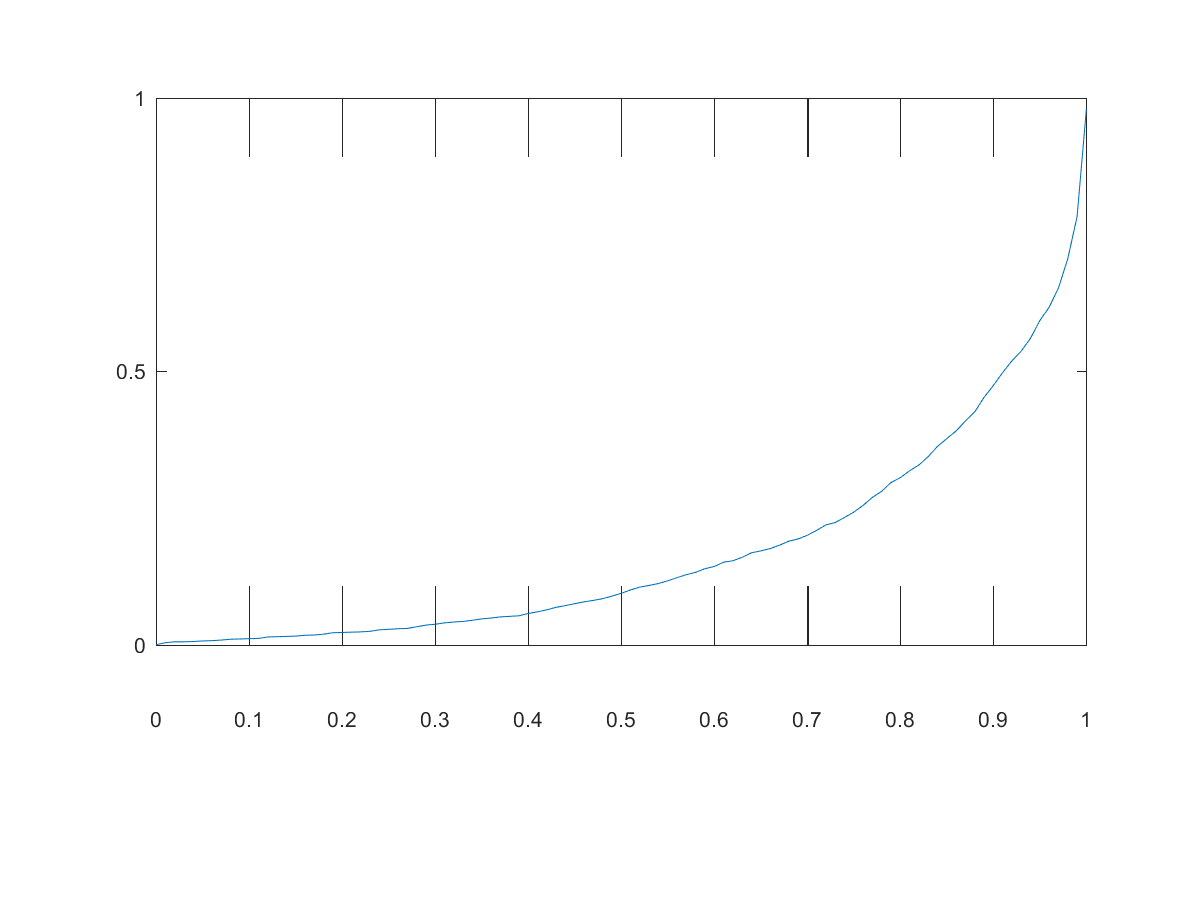
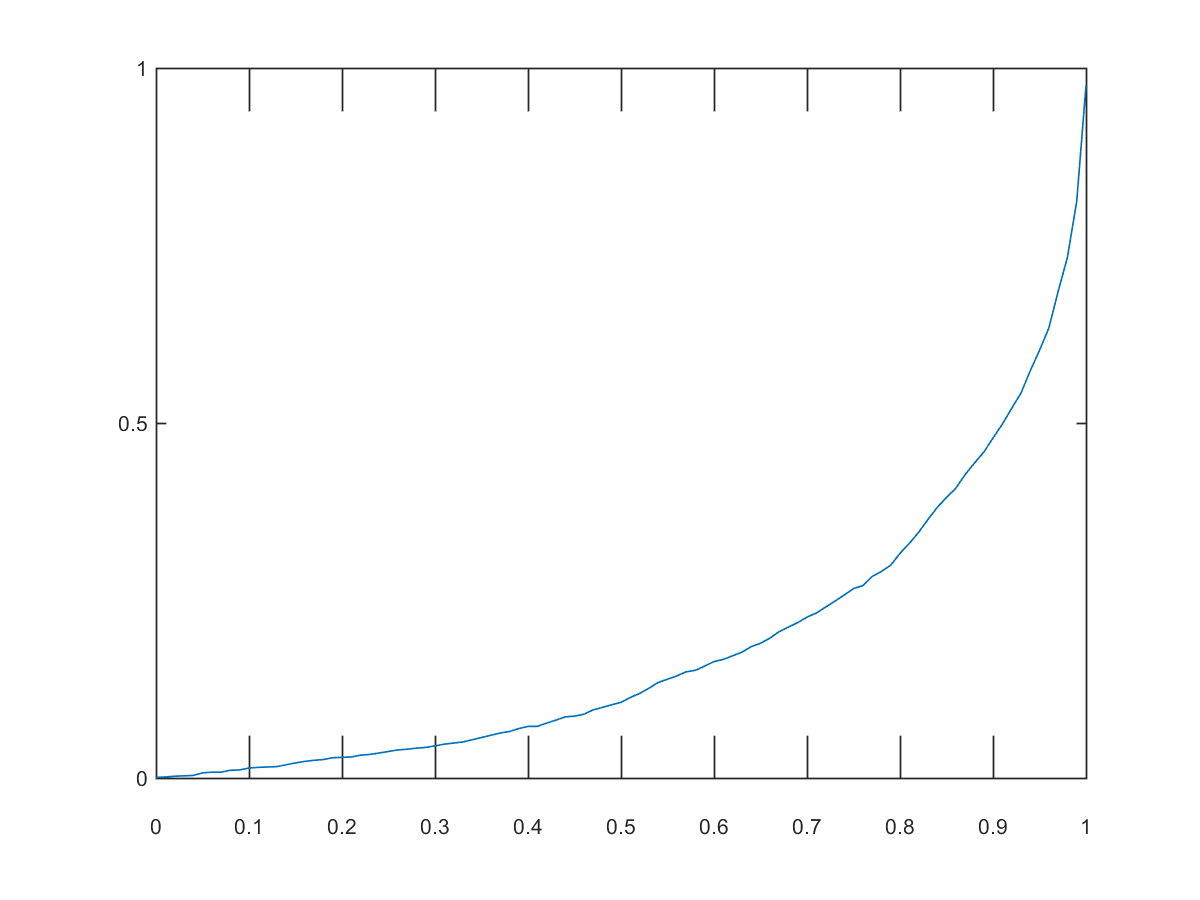
Add some more results from NN

diff --git a/neural-network/nn_checkuser.m b/neural-network/nn_checkuser.m
@@ -19,11 +19,10 @@ tprs = 0:0.01:1;
 % false positive rates corresponding to tprs
 fprs = zeros(length(idxes), length(tprs));
 
-for i = 1:length(uniq)
-%for i = idxes
+for i = idxes
     detectedUserId = uniq(i);
     
-    disp('training to check for user ' + uniq(i));
+    disp(['training to check for user ', num2str(detectedUserId), ' (', num2str(i), ' of ', num2str(length(idxes)), ')']);
     % Check for the i-th user.
     % target: 1 means "intruder"
     %target = zeros(2, length(userids));
@@ -72,10 +71,10 @@ for i = 1:length(uniq)
     [tpr, fpr, thresholds] = roc(t, y);
     for tprIndex = 1:length(tprs)
         tprLevel = tprs(tprIndex);
-        disp('looking for tpr level ' + tprLevel);
+        % disp('looking for tpr level ' + tprLevel);
         for j = 1:length(tpr)
             if (tpr(j) >= tprLevel || j == length(tpr))
-                disp(['found tpr level ', num2str(tpr(j)), ' at ', num2str(j), ', corresponding fpr ', num2str(fpr(j))]);
+                % disp(['found tpr level ', num2str(tpr(j)), ' at ', num2str(j), ', corresponding fpr ', num2str(fpr(j))]);
                 fprs(i,tprIndex) = fpr(j);
                 break;
             end
@@ -92,7 +91,15 @@ for i = 1:length(uniq)
 end
 
 % Plot average ROC
+
+
 plot(tprs, mean(fprs));
+axis([0 1 0 1]);
 print('average_roc', '-dpng');
 
-%errorbars(tprs, mean(fprs), 2*std(fprs));
+errorbar(tprs, mean(fprs), 2 * std(fprs));
+axis([0 1 0 1]);
+print('average_roc_errorbars', '-dpng');
+
+plot(tprs, fprs);
+print('rocs', '-dpng');

diff --git a/neural-network/nn_predictuser.m b/neural-network/nn_predictuser.m
@@ -81,7 +81,7 @@ yind = vec2ind(y);
 percentErrors = sum(tind ~= yind)/numel(tind);
 
 % View the Network
-view(net)
+%view(net)
 
 % Plots
 % Uncomment these lines to enable various plots.
